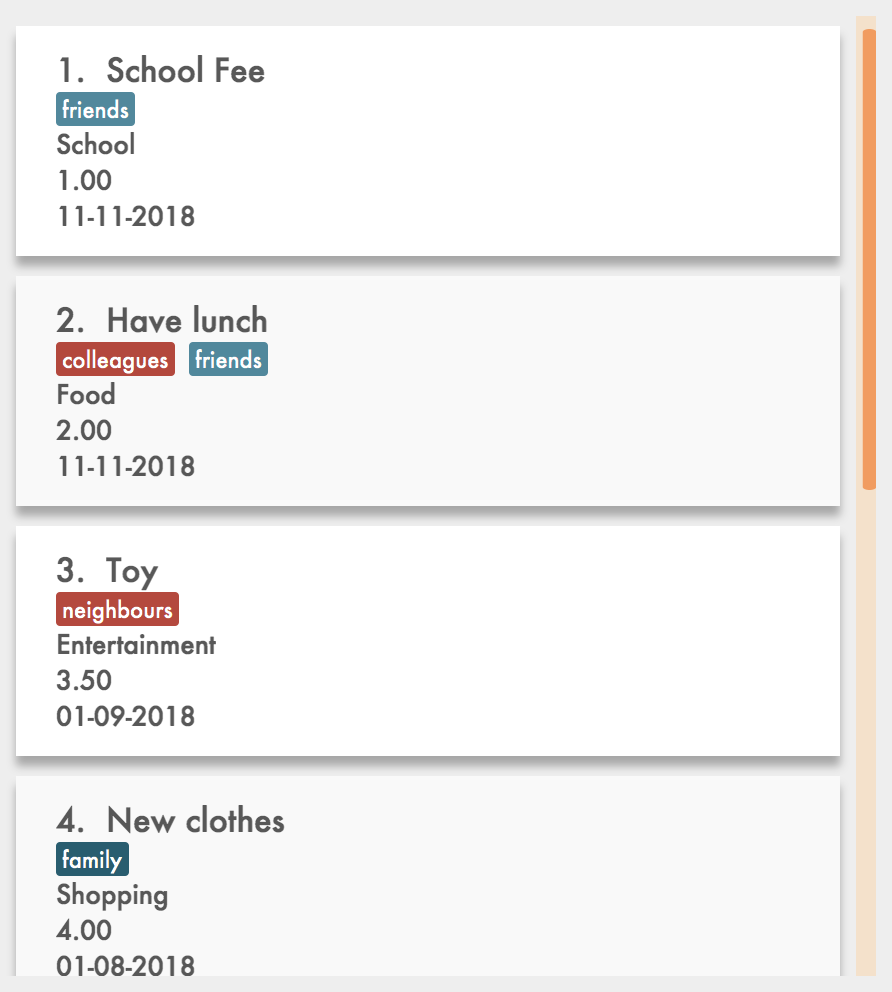
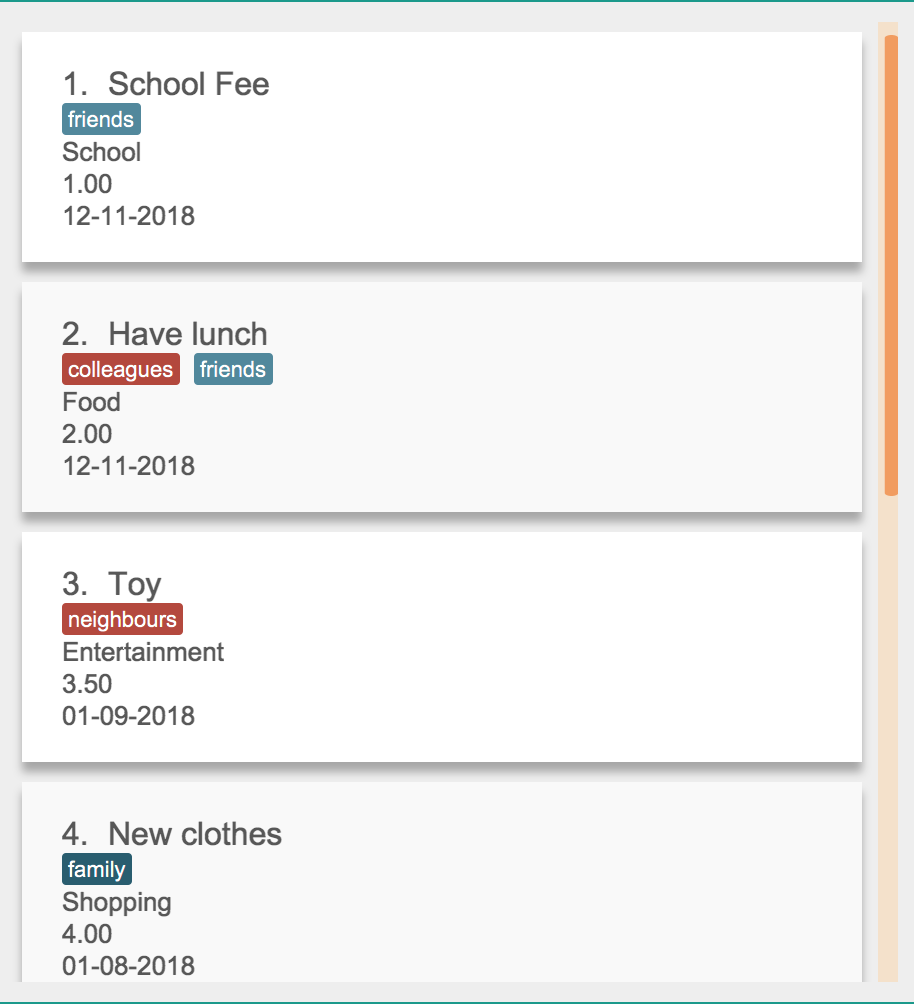
Updated Docs - Replace images with images of Expense Tracker with correct font - Updated PPP , User Guide and Developer Guide

diff --git a/src/main/resources/view/BaseTheme.css b/src/main/resources/view/BaseTheme.css
@@ -5,27 +5,27 @@
 
 .label {
     -fx-font-size: 11pt;
-    -fx-font-family: "Futura";
+    -fx-font-family: "Arial";
     -fx-text-fill: #555555;
     -fx-opacity: 0.9;
 }
 
 .label-bright {
     -fx-font-size: 11pt;
-    -fx-font-family: "Futura";
+    -fx-font-family: "Arial";
     -fx-text-fill: white;
     -fx-opacity: 1;
 }
 .label-header {
     -fx-font-size: 32pt;
-    -fx-font-family: "Futura";
+    -fx-font-family: "Arial";
     -fx-text-fill: white;
     -fx-opacity: 1;
 }
 
 .text-field {
     -fx-font-size: 12pt;
-    -fx-font-family: "Futura";
+    -fx-font-family: "Arial";
 }
 
 .tab-pane {
@@ -65,7 +65,7 @@
 
 .table-view .column-header .label {
     -fx-font-size: 20pt;
-    -fx-font-family: "Futura";
+    -fx-font-family: "Arial";
     -fx-text-fill: white;
     -fx-alignment: center-left;
     -fx-opacity: 1;
@@ -114,13 +114,13 @@
 }
 
 .cell_big_label {
-    -fx-font-family: "Futura";
+    -fx-font-family: "Arial";
     -fx-font-size: 16px;
     -fx-text-fill: #464646;
 }
 
 .cell_small_label {
-    -fx-font-family: "Futura";
+    -fx-font-family: "Arial";
     -fx-font-size: 13px;
     -fx-text-fill: #464646;
 }
@@ -136,7 +136,7 @@
 
 .result-display {
     -fx-background-color: transparent;
-    -fx-font-family: "Futura";
+    -fx-font-family: "Arial";
     -fx-text-alignment: center;
     -fx-font-size: 13pt;
     -fx-text-fill: white;
@@ -149,7 +149,7 @@
 }
 
 .status-bar .label {
-    -fx-font-family: "Futura";
+    -fx-font-family: "Arial";
     -fx-text-fill: white;
 }
 
@@ -187,7 +187,7 @@
 
 .menu-bar .label {
     -fx-font-size: 14pt;
-    -fx-font-family: "Futura";
+    -fx-font-family: "Arial";
     -fx-text-fill: white;
     -fx-opacity: 0.9;
 }
@@ -350,6 +350,7 @@
 #title .label {
     -fx-font-size: 30pt;
     -fx-text-fill: #fff;
+    -fx-font-family: "Arial Bold";
     -fx-padding: 10px;
 }
 
@@ -390,14 +391,14 @@
 }
 
 #notificationListView #header {
-    -fx-font-size: 15pt;
-    -fx-font-family: "Futura";
+    -fx-font-size: 10pt;
+    -fx-font-family: "Arial Black";
     -fx-padding: 10px;
 }
 
 #notificationListView #body {
     -fx-font-size: 10pt;
-    -fx-font-family: "Futura";
+    -fx-font-family: "Arial";
     -fx-padding: 10px;
 }
 
@@ -414,6 +415,7 @@
 
 #categoriesPanel .label {
     -fx-font-size: 25pt;
+    -fx-font-family: "Arial";
     -fx-text-fill: #656565;
     -fx-padding: 5px 5px 5px 10px;
 }
@@ -424,7 +426,7 @@
 
 #categoriesIcon .label {
     -fx-font-size: 12pt;
-    -fx-font-family: "Futura";
+    -fx-font-family: "Arial";
     -fx-text-fill: #656565;
 }
 

diff --git a/docs/stylesheets/asciidoctor.css b/docs/stylesheets/asciidoctor.css
@@ -378,7 +378,6 @@ p{margin-bottom:1.25rem}
 *{-webkit-box-shadow:none!important;box-shadow:none!important;text-shadow:none!important}
 a{color:inherit!important;text-decoration:underline!important}
 a.bare,a[href^="#"],a[href^="mailto:"]{text-decoration:none!important}
-a[href^="http:"]:not(.bare):after,a[href^="https:"]:not(.bare):after{content:"(" attr(href) ")";display:inline-block;font-size:.875em;padding-left:.25em}
 abbr[title]:after{content:" (" attr(title) ")"}
 pre,blockquote,tr,img,object,svg{page-break-inside:avoid}
 thead{display:table-header-group}
